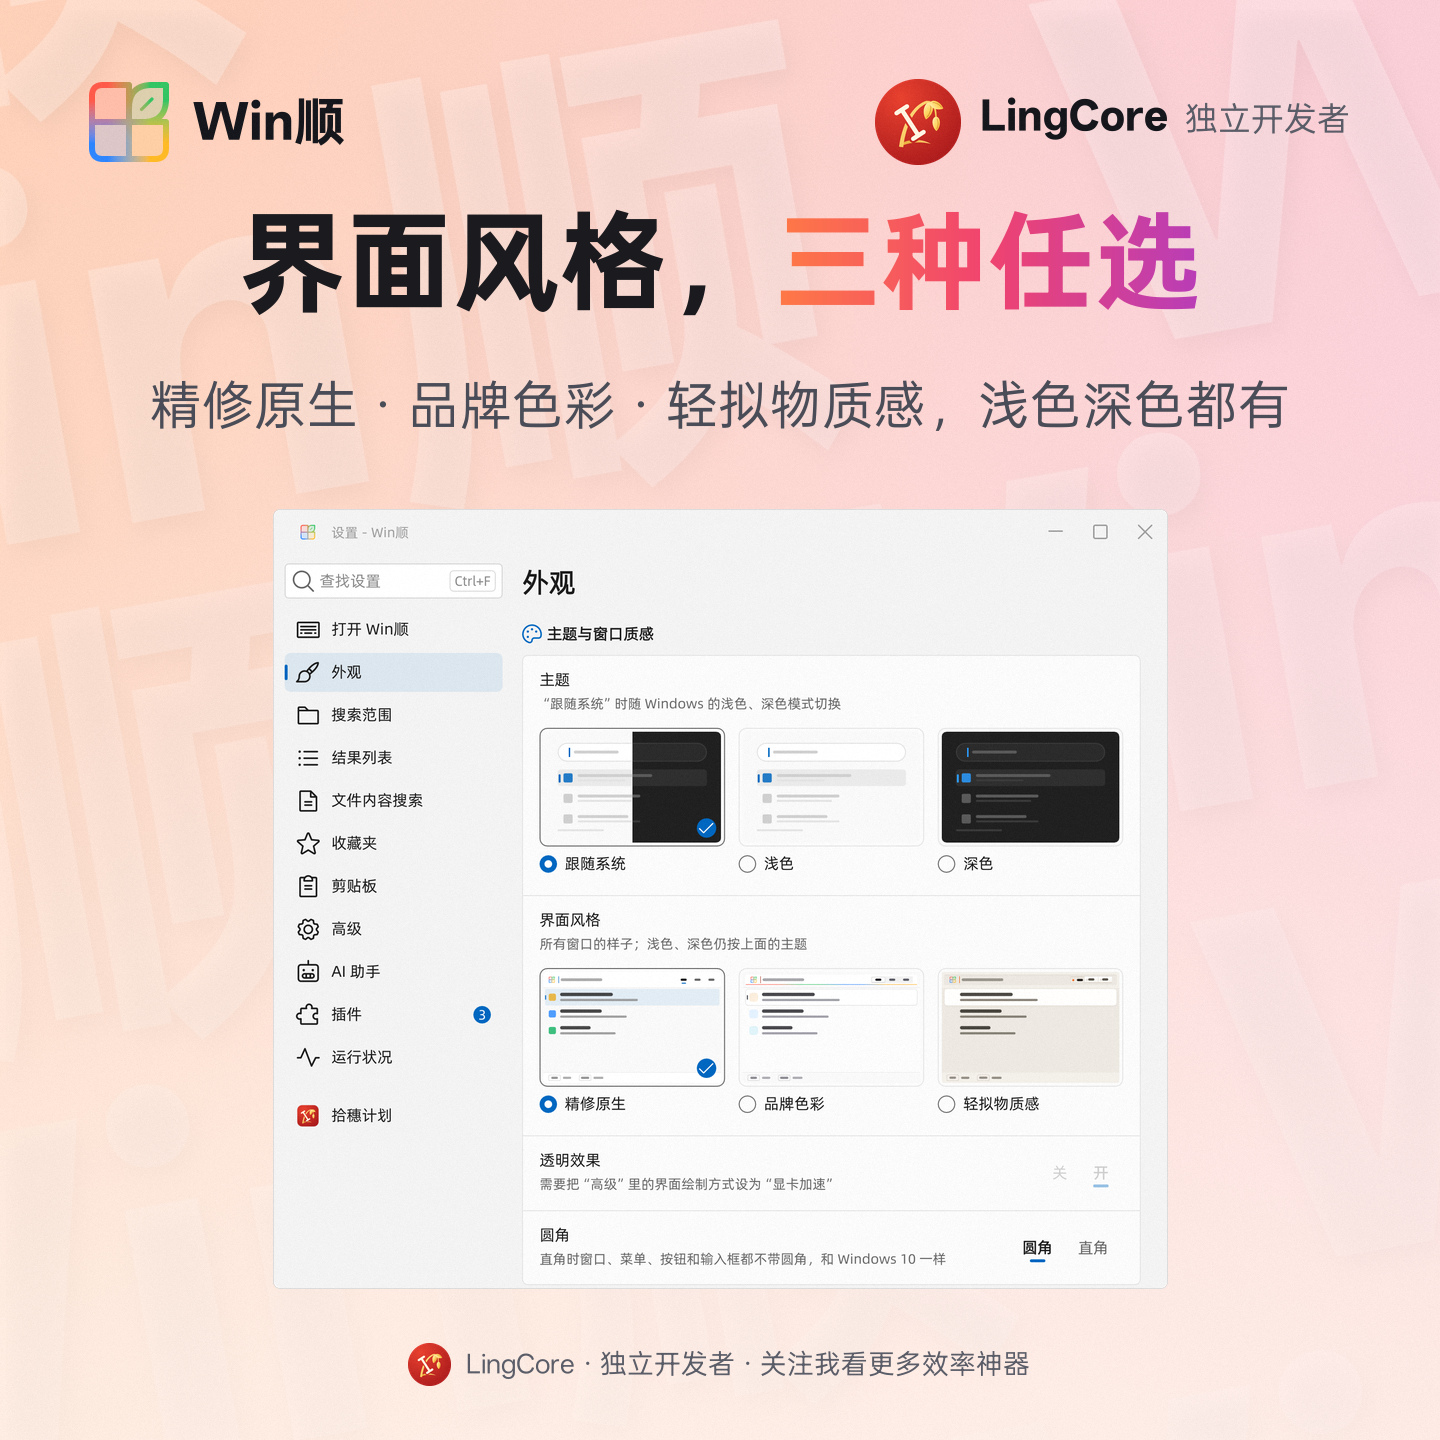
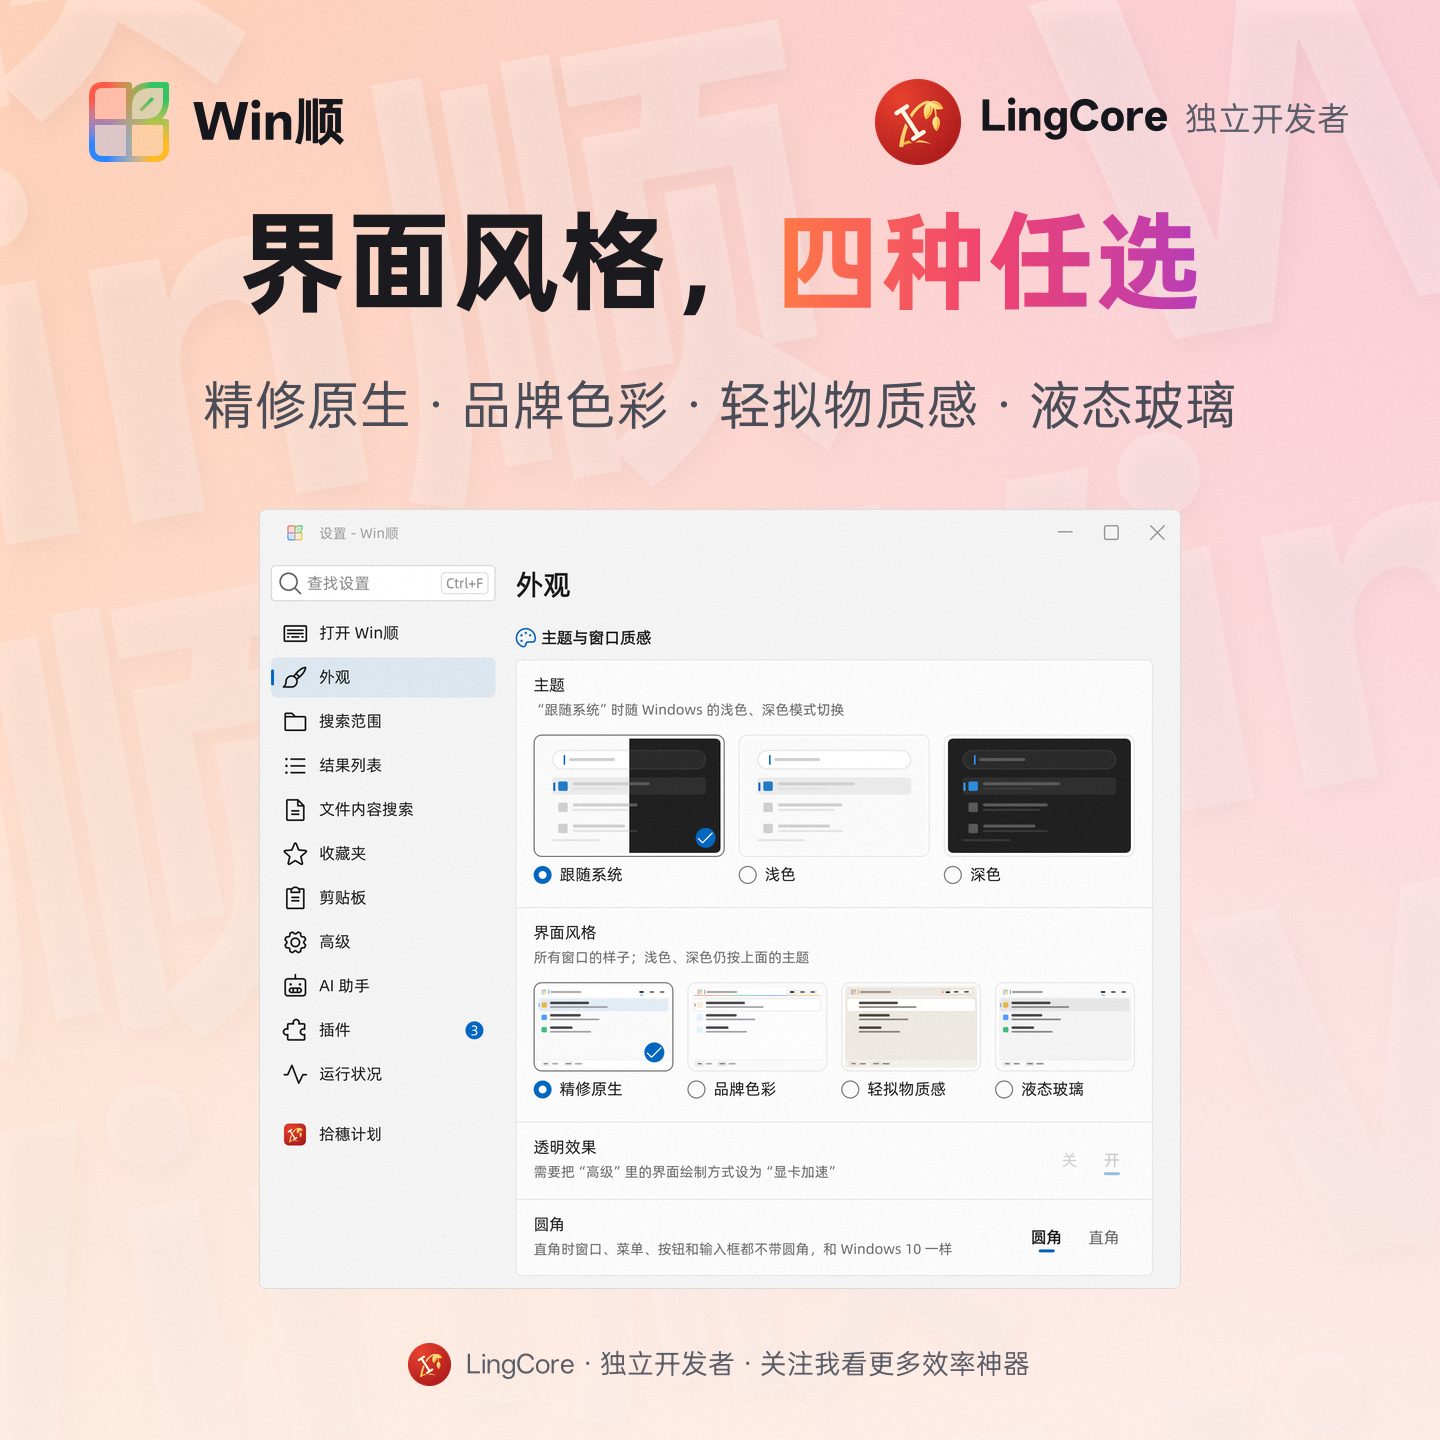
Refresh WinShun 0.23.0 posters: four interface styles, plugin feedback
Production previews from the 0.23.0 deployment (d3d11, isolated profiles,
zero QML warnings), exported with the brand square template.

diff --git a/tools/screenshots/release023.py b/tools/screenshots/release023.py
@@ -1,0 +1,85 @@
+"""Capture 0.23.0 production previews and export the posters this release changes.
+
+Use a fresh --work for --capture-only, inspect the PNGs and reports, then run
+--export-only with that directory. Only the appearance poster (four interface
+styles) and the new plugin feedback poster are captured; the other posters
+stay as 0.22.0 left them. Preview profiles are isolated.
+"""
+import argparse
+import hashlib
+import json
+import os
+from pathlib import Path
+import shutil
+import subprocess
+import sys
+
+sys.dont_write_bytecode = True
+
+import release017
+import shots
+
+
+release017.SOURCES = {
+    "appearance": ("L-appearance", "settings/p01-t0.png", 1556),
+    "plugin-feedback": ("L-plugin-feedback", "plugins/card-menu.png", 1456),
+}
+
+overrides = {
+    "appearance": ("界面风格，[四种任选]", "精修原生 · 品牌色彩 · 轻拟物质感 · 液态玻璃"),
+}
+shots.README_ONLY = tuple(
+    (entry[0], entry[1], *overrides[entry[0]]) if entry[0] in overrides else entry
+    for entry in shots.README_ONLY
+) + (
+    ("plugin-feedback", "L-plugin-feedback", "插件出问题，[直接找作者]", "卡片“…”菜单直达作者仓库 · 社区插件由作者维护"),
+)
+
+
+def capture(exe, work):
+    work.mkdir(parents=True)
+    temporary = work / "temp"
+    temporary.mkdir()
+    environment = {**os.environ, "TEMP": str(temporary), "TMP": str(temporary),
+                   "PYTHONDONTWRITEBYTECODE": "1", "__COMPAT_LAYER": "RunAsInvoker"}
+    (work / "plugins").mkdir()
+    runs = (
+        ("settings", ["--preview-settings", str(work / "settings"), "--scale", "2"]),
+        ("plugins", ["--preview-plugins", str(work / "plugins/card-menu.png"), "--menu", "card", "--scale", "2"]),
+    )
+    try:
+        for folder, flags in runs:
+            print("Capturing", folder, flush=True)
+            result = subprocess.run([str(exe), *flags, "--renderer", "d3d11"], env=environment, timeout=240)
+            print(f"{folder}: exit {result.returncode} (QML warnings, or 4 when a check failed)", flush=True)
+            if result.returncode:
+                result.check_returncode()
+    finally:
+        if temporary.resolve().parent != work.resolve():
+            raise ValueError("Temporary profile path escaped the capture directory")
+        shutil.rmtree(temporary)
+    (work / "capture.json").write_text(json.dumps({
+        "exe": str(exe), "sha256": hashlib.sha256(exe.read_bytes()).hexdigest(),
+        "renderer": "d3d11", "profiles": "isolated production previews", "scale": 2,
+    }, indent=2), encoding="utf-8")
+
+
+def main():
+    parser = argparse.ArgumentParser(description=__doc__)
+    parser.add_argument("--exe", type=Path, required=True)
+    parser.add_argument("--work", type=Path, required=True)
+    modes = parser.add_mutually_exclusive_group(required=True)
+    modes.add_argument("--capture-only", action="store_true")
+    modes.add_argument("--export-only", action="store_true")
+    args = parser.parse_args()
+    if args.capture_only:
+        if args.work.exists():
+            parser.error("--work must be a fresh directory")
+        capture(args.exe.resolve(strict=True), args.work.resolve())
+        return
+    sys.argv = [sys.argv[0], "--exe", str(args.exe), "--work", str(args.work), "--export-only"]
+    release017.main()
+
+
+if __name__ == "__main__":
+    main()
